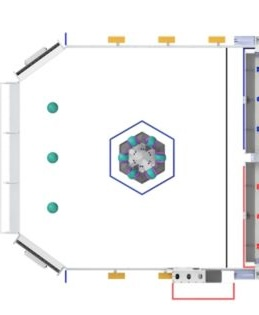
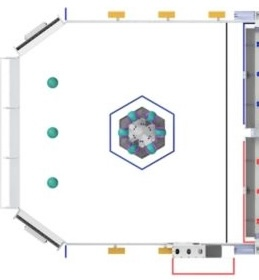
good field moment

diff --git a/lib/auto_page.dart b/lib/auto_page.dart
@@ -19,10 +19,21 @@ class AutoPage extends StatefulWidget {
 class _AutoPageState extends State<AutoPage> {
   ThemeMode themeMode = ThemeMode.system;
   bool inCenterZone = false;
+  bool inProcessorZone = false;
+  bool inOppositeZone = false;
+
+  double min(double valOne, double valTwo) {
+    return valOne > valTwo ? valTwo : valOne;
+  }
 
   @override
   Widget build(BuildContext context) {
     final ColorScheme colorScheme = Theme.of(context).colorScheme;
+    final double screenWidth = MediaQuery.of(context).size.width;
+    const double screenPadding = 12;
+    const double imageWidthToHeight = 13 / 14;
+    final double fieldWidth = min(screenWidth - 2 * screenPadding, 400);
+    // const AssetImage bg = AssetImage('assets/reefscape_blue_field.jpg');
     const AssetImage bg = AssetImage('assets/reefscape_blue_field.jpg');
     return Scaffold(
         appBar: AppBar(
@@ -36,42 +47,53 @@ class _AutoPageState extends State<AutoPage> {
             ],
           ),
         ),
-        body: Column(children: [
-          Container(
-            padding: const EdgeInsets.all(12),
-            alignment: Alignment.center,
-            child: Stack(alignment: Alignment.center, children: [
-              Container(
-                width: 370,
-                height: 370,
-                decoration: const BoxDecoration(
-                image: DecorationImage(
-                  image: bg,
-                  fit: BoxFit.fill,
-                ),
-              )),
-              // const SizedBox(
-              //     width: 150,
-              //     height: 150,
-              //     child: DecoratedBox(
-              //         decoration: BoxDecoration(
-              //             color: Color.fromARGB(255, 128, 128, 128)))),
-              // const SizedBox(
-              //     width: 100,
-              //     height: 100,
-              //     child: DecoratedBox(
-              //         decoration: BoxDecoration(
-              //             color: Color.fromARGB(255, 255, 255, 255)))),
-            ]),
-          ),
-          Checkbox(
-            value: inCenterZone,
-            onChanged: (bool? value) {
-              setState(() {
-                inCenterZone = value!;
-              });
-            },
-          ),
-        ]));
+        body: Container(
+            padding: const EdgeInsets.all(screenPadding),
+            child: SingleChildScrollView(
+                child: Column(
+                    mainAxisAlignment: MainAxisAlignment.start,
+                    crossAxisAlignment: CrossAxisAlignment.center,
+                    children: [
+                  Container(
+                      width: double.infinity,
+                      alignment: Alignment.center,
+                      child: Stack(alignment: Alignment.center, children: [
+                        SizedBox(
+                            width: fieldWidth,
+                            height: fieldWidth / imageWidthToHeight,
+                            child: const DecoratedBox(
+                              decoration: BoxDecoration(
+                                  image: DecorationImage(
+                                      image: bg, fit: BoxFit.fitWidth)),
+                            )),
+                        Checkbox(
+                            value: inCenterZone,
+                            onChanged: (bool? value) => {
+                                  setState(() {
+                                    inCenterZone = value!;
+                                  })
+                                }),
+                        Checkbox(
+                            value: inProcessorZone,
+                            onChanged: (bool? value) => {
+                                  setState(() {
+                                    inProcessorZone = value!;
+                                  })
+                                }),
+                        Checkbox(
+                            value: inOppositeZone,
+                            onChanged: (bool? value) => {
+                                  setState(() {
+                                    inOppositeZone = value!;
+                                  })
+                                }),
+                      ])),
+                  const SizedBox(
+                      width: 50,
+                      height: 1500,
+                      child: DecoratedBox(
+                        decoration: BoxDecoration(color: Colors.red),
+                      ))
+                ]))));
   }
 }
